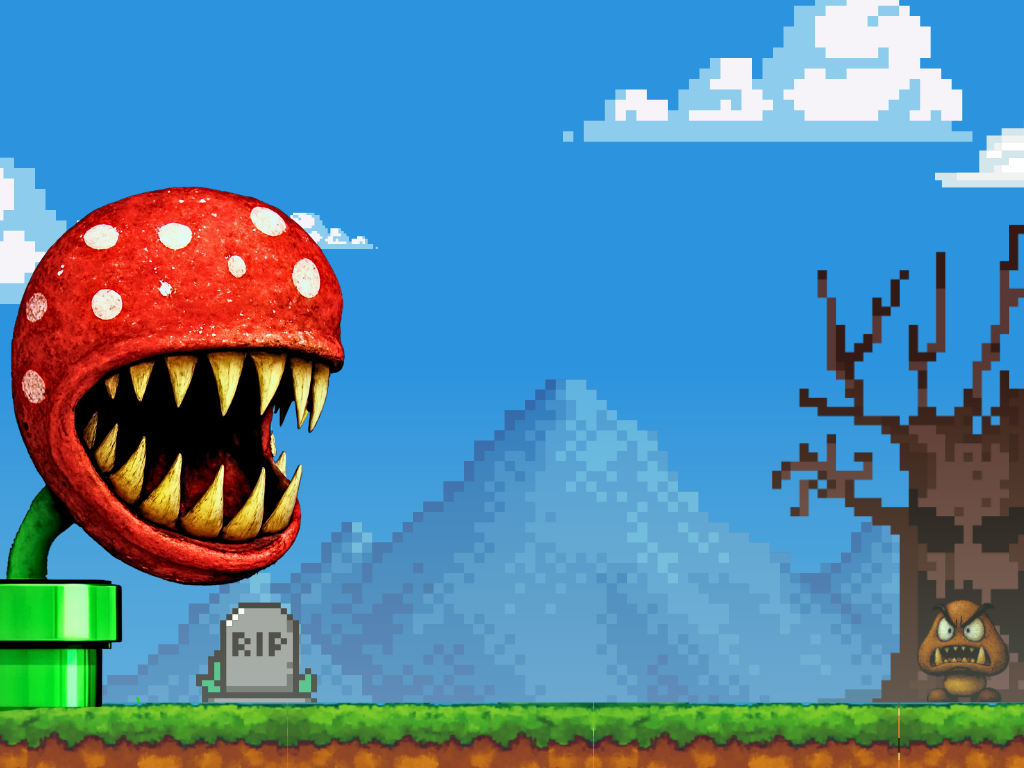
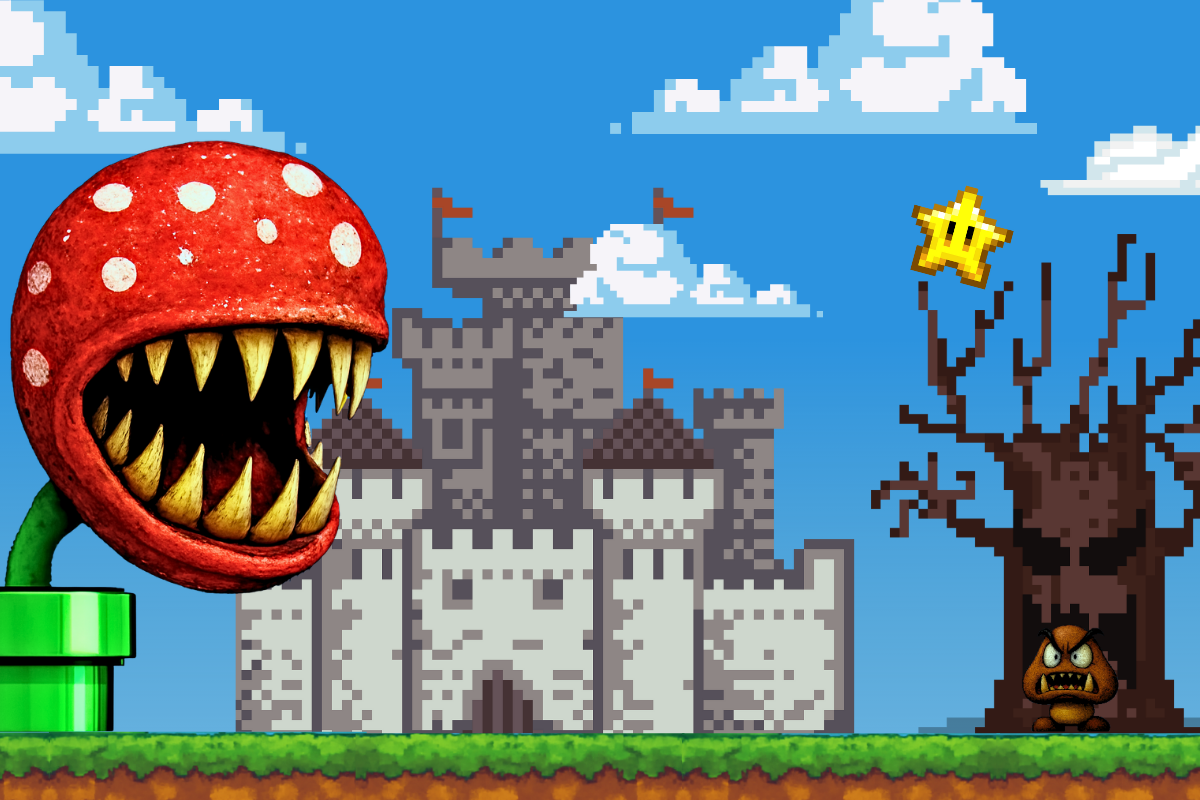
Redesign CharacterSelection state UI

diff --git a/src/CharacterSelection.cpp b/src/CharacterSelection.cpp
@@ -3,27 +3,25 @@
 #include "../headers/MenuState.h"
 
 CharacterSelection::CharacterSelection() {
-    const int amount_button = 2;
-    buttons.resize(amount_button);
 
-    ButtonLayoutConfig cfg(amount_button, 50);
-    const char* buttonLabels[amount_button] = { "Mario", "Luigi"};
-   
-    buttons = CreateButtons(buttonLabels, cfg);
     font = LoadFont("../assets/font/knightwarrior.otf");
 
     backButton = new Button("../assets/GUI/back_button.png", 10, 10, 100, 100, "", WHITE);
 
-    background = resizedImage("../assets/GUI/Menu Background.png", screenWidth, screenHeight);
+    background = LoadTexture("../assets/GUI/Character_Seletion.png");
     characters.resize(2);
     characters[0] = LoadTexture("../assets/GUI/menu_mario.png");
     characters[1] = LoadTexture("../assets/GUI/menu_luigi.png");
-    selectCharacter = &characters[0];
+    selectCharacter = selectedCharacter == CharacterType::Mario ? &characters[0] : &characters[1];
+
+    characterChoices.resize(2);
+    characterChoices[0] = new Button("../assets/GUI/characterselection_mario.png",  screenWidth * 0.13f, screenHeight * 0.15, 250,309, "", WHITE, 0, "MARIO");
+    characterChoices[1] = new Button("../assets/GUI/characterselection_luigi.png",  screenWidth * 0.13f, screenHeight * 0.15 + 309 + 12, 250,309, "", WHITE, 0, "LUIGI");
 }
 
 CharacterSelection::~CharacterSelection() {
-    for (auto& button : buttons) delete button;
     for (auto& character : characters) UnloadTexture(character);
+    for(auto& choice: characterChoices) delete choice;
     delete backButton;
 
     UnloadTexture(background);
@@ -31,16 +29,16 @@ CharacterSelection::~CharacterSelection() {
 }
 
 void CharacterSelection::update(float deltatime) {
-    for (auto& button : buttons) {
-        button->update(deltatime);
+    for (auto& choice : characterChoices) {
+        choice->update(deltatime);
     }
     backButton->update(deltatime);
 
-    if (buttons[0]->IsClicked()) {
+    if (characterChoices[0]->IsClicked()) {
         selectCharacter = &characters[0];
         selectedCharacter = CharacterType::Mario;
     }
-    else if (buttons[1]->IsClicked()) {
+    else if (characterChoices[1]->IsClicked()) {
         selectCharacter = &characters[1];
         selectedCharacter = CharacterType::Luigi;
         
@@ -52,15 +50,18 @@ void CharacterSelection::update(float deltatime) {
 }
 
 void CharacterSelection::render() {
-    DrawTexture(background, 0, 0, WHITE);
+    DrawTexturePro(background,
+                {0,0, (float) background.width,(float) background.height},
+                {0,0, screenWidth, screenHeight},
+                 {0, 0}, 0, WHITE);
     backButton->draw();
-    for (auto& button : buttons) {
-        button->draw();
+    for (auto& choice : characterChoices) {
+        choice->draw();
     }
     //HEADER TITLE
-    DrawTextEx(font, "MARIO MARIO", { screenWidth * 0.33f, screenHeight * 0.1f }, 100, 5, DARKBROWN);
+    //DrawTextEx(font, "MARIO MARIO", { screenWidth * 0.33f, screenHeight * 0.1f }, 100, 5, DARKBROWN);
     DrawTexturePro(*selectCharacter,
             {0,0,(float) selectCharacter->width, (float) selectCharacter->height} ,
-            {screenWidth * 0.6f, screenHeight * 0.4f,  300, 450},
+            {screenWidth * 0.5f, screenHeight * 0.3f, 350 , 525},
             {0,0}, 0, WHITE);
 }

diff --git a/src/MapEditor.cpp b/src/MapEditor.cpp
@@ -6,6 +6,7 @@
 #include "../headers/TileBehavior.h"
 #include "../headers/Global.h"
 #include "raymath.h"
+#include  "../headers/nlohmann/json.hpp"
 using namespace std;
 
 MapEditor::MapEditor(const char* path, int r, int c) : Map(path, r, c) {
@@ -75,10 +76,29 @@ void MapEditor::saveToFile(const char* filename) {
     MyFile.close();
 }
 
+void MapEditor::saveMapToJSON(const char* filename){
+    nlohmann::json j;
+
+    j["width"] = 5;
+    j["height"] = 3;
+    j["tiles"] = {
+        {0, 0, 1, 0, 0},
+        {0, 1, 1, 1, 0},
+        {2, 0, 0, 0, 2}
+    };
+
+    std::ofstream file(filename);
+    file << j.dump(); 
+    file.close();
+}
 void MapEditor::handleInput() {
      float dt = GetFrameTime();
     float speed = 200;
 
+    if(IsKeyPressed(KEY_O)){
+        saveMapToJSON("testJSON");
+        cout << "SAVED TO JSON FILE\n";
+    }
     if (IsKeyDown(KEY_RIGHT)) {
         if (IsKeyDown(KEY_LEFT_CONTROL)) {
             speed = 1000;

diff --git a/headers/CharacterSelection.h b/headers/CharacterSelection.h
@@ -7,10 +7,11 @@ using namespace std;
 class CharacterSelection : public GameState {
 private:
     Button* backButton;
-    vector<Button*> buttons;
+  
     Font font;
     Texture2D background;
     vector <Texture2D> characters;
+    vector<Button*> characterChoices;
     Texture2D* selectCharacter;
 public:
     CharacterSelection();

diff --git a/headers/MapEditor.h b/headers/MapEditor.h
@@ -39,6 +39,7 @@ public:
     Camera2D cameraEditor{};
     bool IsInsideMap(int row, int col);
     void saveToFile(const char* filename);
+    void saveMapToJSON(const char* filename);
 
     //Inherit GameState
     void update(float deltatime) override;
